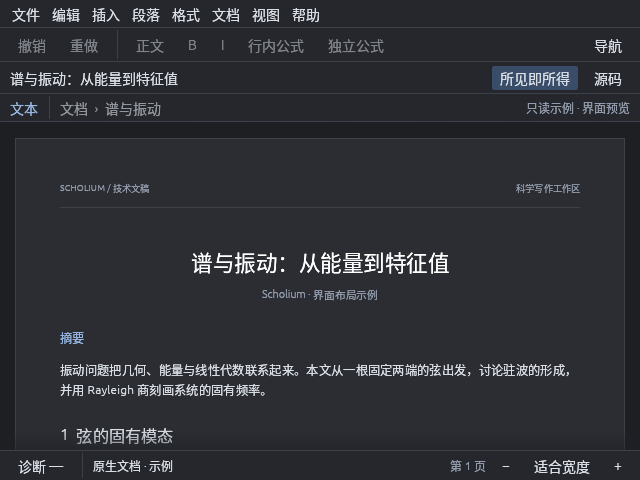
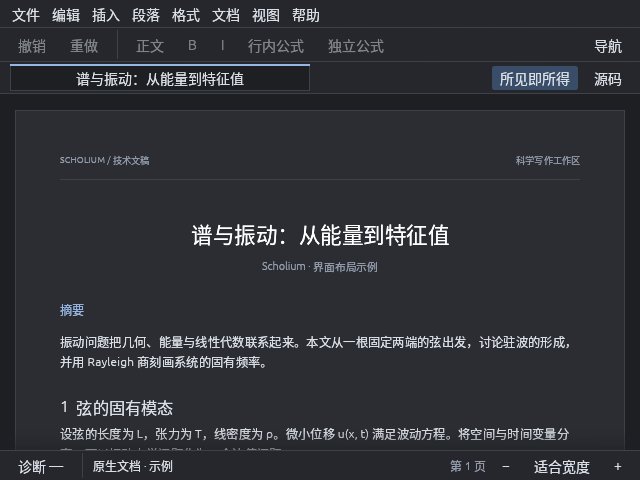
fix: consolidate document tab and view controls

diff --git a/crates/scholium-app/src/chrome.rs b/crates/scholium-app/src/chrome.rs
@@ -19,10 +19,6 @@ pub(crate) fn show(ui: &mut egui::Ui, state: &mut WorkspaceState) {
         .exact_size(32.0)
         .frame(theme::bar_frame(ui))
         .show(ui, |ui| tabs(ui, state));
-    egui::Panel::top("context")
-        .exact_size(theme::ROW_HEIGHT)
-        .frame(theme::bar_frame(ui))
-        .show(ui, |ui| context(ui, state));
     egui::Panel::bottom("status")
         .exact_size(30.0)
         .frame(theme::bar_frame(ui))
@@ -172,15 +168,42 @@ fn toolbar(ui: &mut egui::Ui, state: &mut WorkspaceState) {
     });
 }
 
+// Logical pixels reserved for view controls; long tab titles cannot push them off-screen.
+const VIEW_SWITCH_WIDTH: f32 = 168.0;
+const DOCUMENT_TAB_WIDTH: f32 = 300.0;
+
 fn tabs(ui: &mut egui::Ui, state: &mut WorkspaceState) {
     ui.horizontal_centered(|ui| {
-        ui.label(
-            RichText::new(if state.document.is_some() {
-                "未命名 · 未保存"
-            } else {
-                sample::TITLE
-            })
-            .color(theme::colors(ui).text),
+        let title = if state.document.is_some() {
+            "未命名 · 未保存"
+        } else {
+            sample::TITLE
+        };
+        let tab_area = (ui.available_width() - VIEW_SWITCH_WIDTH).max(0.0);
+        ui.allocate_ui_with_layout(
+            egui::vec2(tab_area, 26.0),
+            Layout::left_to_right(Align::Center),
+            |ui| {
+                let palette = theme::colors(ui);
+                let response = ui
+                    .add_sized(
+                        [tab_area.min(DOCUMENT_TAB_WIDTH), 26.0],
+                        egui::Button::new(RichText::new(title).color(palette.text))
+                            .fill(palette.canvas)
+                            .stroke(egui::Stroke::new(1.0, palette.border))
+                            .corner_radius(egui::CornerRadius::ZERO)
+                            .truncate(),
+                    )
+                    .on_hover_text(title);
+                ui.painter().hline(
+                    response.rect.x_range(),
+                    response.rect.top(),
+                    egui::Stroke::new(2.0, palette.accent),
+                );
+                response.widget_info(|| {
+                    egui::WidgetInfo::selected(egui::WidgetType::SelectableLabel, true, true, title)
+                });
+            },
         );
         ui.with_layout(Layout::right_to_left(Align::Center), |ui| {
             for (label, mode, command) in [
@@ -191,34 +214,6 @@ fn tabs(ui: &mut egui::Ui, state: &mut WorkspaceState) {
                     commands::dispatch(state, command);
                 }
             }
-        });
-    });
-}
-
-fn context(ui: &mut egui::Ui, state: &WorkspaceState) {
-    ui.horizontal_centered(|ui| {
-        let mode = if state.mode == ViewMode::Visual {
-            "文本"
-        } else {
-            "源码"
-        };
-        ui.label(RichText::new(mode).color(theme::colors(ui).accent));
-        ui.separator();
-        ui.weak(if state.document.is_some() {
-            "文档  ›  未命名"
-        } else {
-            "文档  ›  谱与振动"
-        });
-        ui.with_layout(Layout::right_to_left(Align::Center), |ui| {
-            ui.label(
-                RichText::new(if state.document.is_some() {
-                    "基础接入 · 仅内存"
-                } else {
-                    "只读示例 · 界面预览"
-                })
-                .small()
-                .color(theme::colors(ui).muted),
-            );
         });
     });
 }

diff --git a/docs/plan/P1_UI.md b/docs/plan/P1_UI.md
@@ -69,13 +69,13 @@ LaTeX 发布目标的最终检查由“文档 → 最终排版检查”按需打
 | 窗口标题 | 文档名、修改标记、应用名；不放打开/保存/导出的强调按钮组 |
 | 标准菜单栏 | 文件、编辑、插入、段落、格式、文档、视图、帮助；完整操作入口稳定可查找 |
 | 紧凑常用工具栏 | 撤销/重做、段落样式、粗体/强调、基础数学入口；源码模式显示语言和草稿操作。新建/打开/保存归属标准文件菜单，不在工具栏重复排列 |
-| 文档标签与工作方式 | 当前文档标签；切换所见即所得/源码；不使用额外的“笔记/导出/恢复”场景导航占用工作区 |
-| 模式与焦点上下文 | 紧凑显示文本/数学与当前位置；高级 capability 焦点操作按阶段 2 扩展，不再常驻一整列属性卡片 |
+| 文档标签与工作方式 | 同一行左侧为文档标签区（名称与未保存状态，当前标签高亮，为多文件切换预留）；右侧独立放置所见即所得/源码切换。长标题截断，不挤出右侧切换按钮 |
+| 模式与焦点上下文 | 不再单独常驻一行“文本 / 文档 › 名称”。数学等有实际操作意义的焦点上下文按阶段 2 在工具栏按需展示 |
 | 主编辑工作区 | 所见即所得为单一编辑面；源码模式为等宽双窗格，二者互斥 |
 | 可选辅助面板 | 文件导航由“视图”或工具栏开关展开；诊断由状态栏按需展开；均默认不挤占正文 |
 | 底部状态栏 | 当前模式、内容来源、排版后端/revision、保存状态、诊断数量、页码和缩放；保持一行优先 |
 
-桌面草图的尺寸建议：标题约 25、菜单约 29、工具栏约 33、标签行约 30、上下文约 25、状态栏约 25 逻辑像素。
+桌面草图的尺寸建议：标题约 25、菜单约 29、工具栏约 33、标签行约 32、状态栏约 25 逻辑像素。
 这些是初始布局参数，需要在原生字体、DPI、输入法与辅助功能环境下检验；不可牺牲文字或点击目标可用性。
 辅助导航展开时建议约 166–220 逻辑像素，并允许调整；源码与预览继续平分余下宽度。
 窄桌面窗口优先收起辅助面板。会话草图低于 700 像素时上下排列源码与预览，仅用于窄展示区域阅读；
@@ -125,3 +125,5 @@ P1 仍以原生编辑、Action/undo、保存重开、强杀恢复、最小 Sourc
 
 依据：[产品定义](../PRODUCT.md)、[编辑体验](../EXPERIENCE.md)、[应用模块](../modules/app.md)、
 [Liii STEM 体验调研](../research/LIIISTEM_EXPERIENCE.md)、[路线图](ROADMAP.md)。
+
+标签栏采用左侧文档标签、右侧工作方式切换的单行组织；早期参考图中的独立上下文行以本节文字为准。
